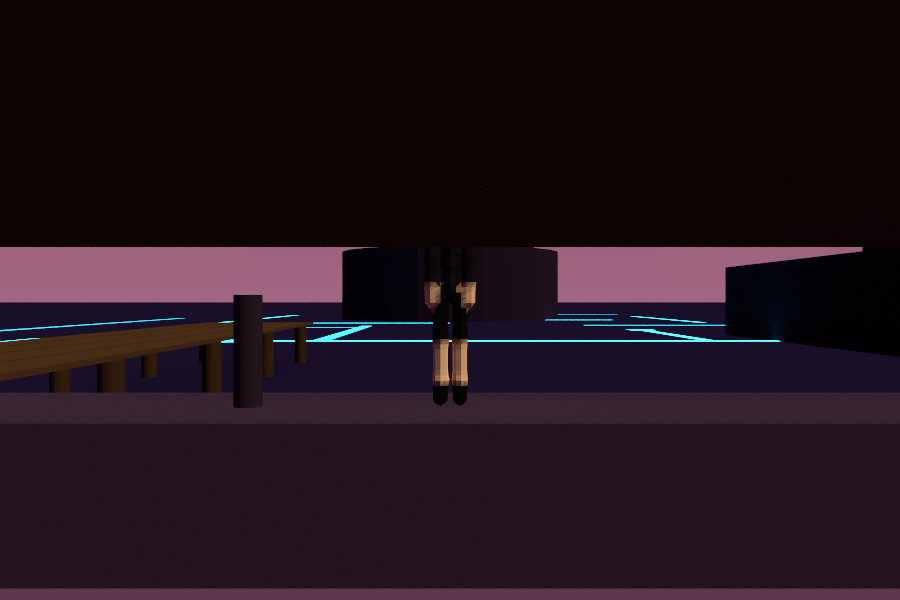
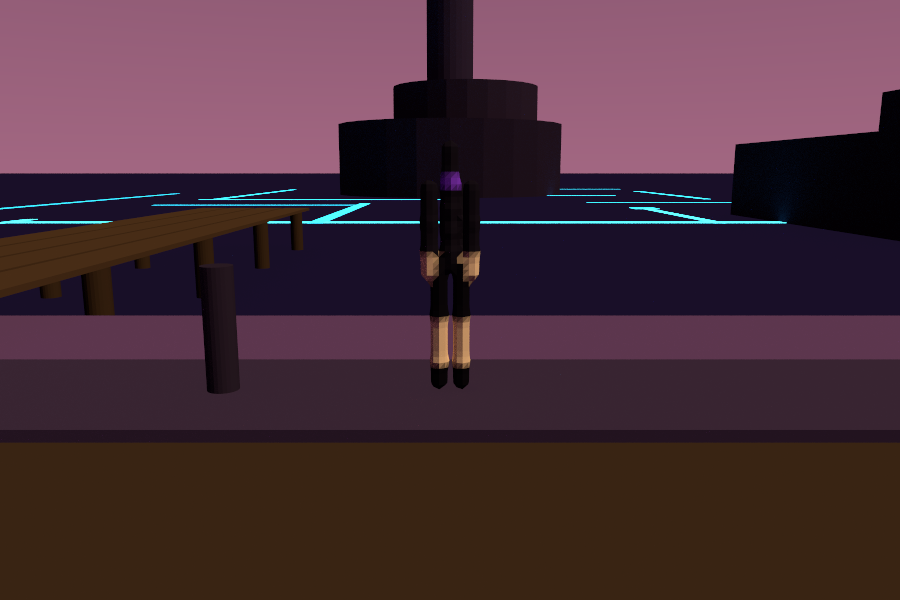
Rite V·V0: reframe the front relic — nari's whole silhouette vs the pink dawn
The prior front camera aimed level, so her obsidian head + dark seifuku
fell against the near-black upper sky and vanished; only skin + cyan-lit
legs read. Camera now sits above her head aiming down at the horizon
(orbit's trick), so the full body — violet-crowned obsidian head, dark
seifuku, skin arms, black skirt, platform boots — stands against the pink
dawn band on the seawall. Deterministic (seed unchanged).

diff --git a/packages/scrying-glass/examples/v0_nari.rs b/packages/scrying-glass/examples/v0_nari.rs
@@ -129,8 +129,10 @@ fn main() {
     // nari stands on the seawall, feet y=1.4, head ~y=3.5 (mid ~2.45). Frame her
     // whole body against the pink horizon, camera near her own height so the
     // sky/sea horizon line sits behind her silhouette.
-    // Front: straight on from the sea side.
-    let cam_front = camera_at([0.0, 2.45, 25.0], [0.0, 2.45, 18.0], 46.0);
+    // Front: straight on from the sea side, camera above her head aiming down
+    // toward the horizon so her whole silhouette (obsidian head, dark seifuku)
+    // stands against the PINK dawn band, not the near-black upper sky.
+    let cam_front = camera_at([0.0, 3.3, 24.0], [0.0, 2.2, 18.0], 46.0);
     // Orbit: from her right shoulder, over the open sea (the left side is
     // crowded by the stall massing).
     let cam_orbit = camera_at([4.6, 2.7, 23.5], [0.0, 2.45, 18.0], 46.0);